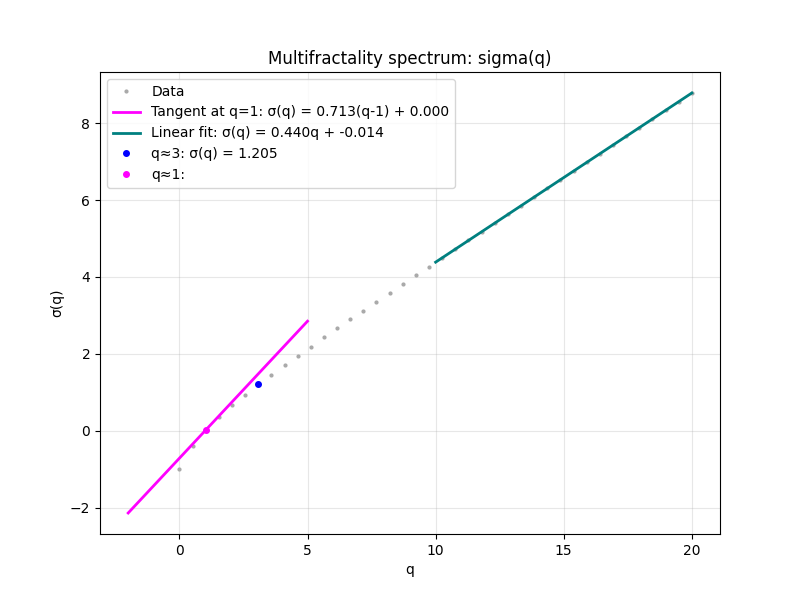
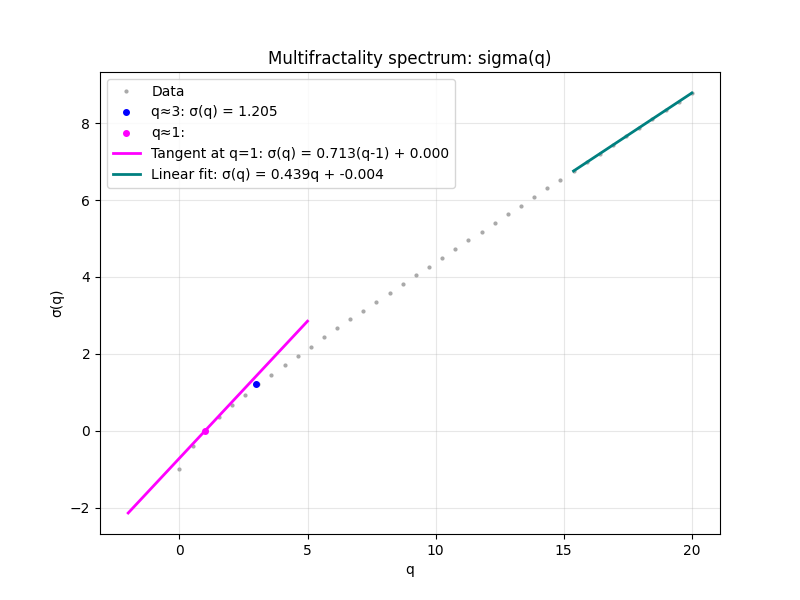
modularized multifractal fit function for multi-parameter analysis

diff --git a/coral_patterns/multifractality.py b/coral_patterns/multifractality.py
@@ -1,4 +1,4 @@
-from typing import Set, Tuple, List
+from typing import Set, Tuple, List, Dict, Any
 import numpy as np
 from tqdm import tqdm
 import random
@@ -6,10 +6,11 @@ import os
 from multiprocessing import Pool
 import gc
 import pickle
+from scipy.interpolate import interp1d
 
 from .config import DEFAULTS
 from .dla import run_walker
-from .helpers import radius_from_r2
+from .helpers import radius_from_r2, estimate_fractal_dimension
 
 def run_single_walker(args):
     """Wrapper function for multiprocessing"""
@@ -129,8 +130,9 @@ def compute_multifractality(
     max_r2: float, 
     num_walkers: int, 
     q_range: Tuple[float, float], 
-    q_steps: int
-) -> Tuple[List[float], List[float]]:
+    q_steps: int,
+    origin: Tuple[int, int] = (0, 0),
+) -> Tuple[List[float], List[float], Dict[Tuple[int, int], float], List[Tuple[int, int]], float, float, List[float], List[float], float, float, float]:
     """
     Compute the multifractality of a completed cluster
     Where:
@@ -157,6 +159,7 @@ def compute_multifractality(
     p_vals = np.array(list(growth_probabilities.values()))
 
     q_vals = np.linspace(q_range[0], q_range[1], q_steps)
+    print(f"length of q_range: {len(q_range)}")
 
     sigma_q = []
 
@@ -167,8 +170,97 @@ def compute_multifractality(
 
         print(f"q: {q}, sigma: {sigma}, sum_p_q: {sum_p_q}")
 
+    multifractality_data = multifractality_fit(q_vals, sigma_q)
+    slope_at_1 = multifractality_data["slope_at_1"]
+    sigma_at_1 = multifractality_data["sigma_at_1"]
+    q_tangent = multifractality_data["q_tangent"]
+    sigma_tangent = multifractality_data["sigma_tangent"]
+    slope_inf = multifractality_data["slope_inf"]
+    intercept_inf = multifractality_data["intercept_inf"]
+    sigma_at_3 = multifractality_data["sigma_at_3"]
+
+    fractal_dimension = estimate_fractal_dimension(cluster, origin, max_r2=max_r2)
+    print(f"Fractal dimension: {fractal_dimension}")
+
     # save to file
     with open(f"data/multifractality_mass-{DEFAULTS['target_mass']}_gm-{DEFAULTS['growth_mode']}_f-{DEFAULTS['friendliness']}_seed-{DEFAULTS['rng_seed']}_numwalkers-{num_walkers}.pkl", "wb") as f:
-        pickle.dump((q_vals, sigma_q, growth_probabilities, sample_path), f)
+        pickle.dump((q_vals, sigma_q, growth_probabilities, sample_path, slope_at_1, sigma_at_1, q_tangent, sigma_tangent, slope_inf, intercept_inf, sigma_at_3, fractal_dimension), f)
 
-    return q_vals, sigma_q, growth_probabilities, sample_path
+    return {
+        "q_vals": q_vals,
+        "sigma_q": sigma_q,
+        "growth_probabilities": growth_probabilities,
+        "sample_path": sample_path,
+        "slope_at_1": slope_at_1,
+        "sigma_at_1": sigma_at_1,
+        "q_tangent": q_tangent,
+        "sigma_tangent": sigma_tangent,
+        "slope_inf": slope_inf,
+        "intercept_inf": intercept_inf,
+        "sigma_at_3": sigma_at_3,
+        "fractal_dimension": fractal_dimension,
+    }
+
+def multifractality_fit(
+    q_vals: List[float],
+    sigma_q: List[float],
+) -> Tuple[float, float]:
+    """Behaviour of the multifractality curve as:
+     - as q -> infinity (slope should be linear and equal to D^2 - D)
+     - Around q = 1, slope should be 1/D
+     - At q = 3, sigma(q) should be equal to 1
+     Where:
+     - D is the fractal dimension of the cluster
+    """
+    
+    # ==================
+    # Measure slope as q -> infinity:
+    # ==================
+    # Fit end range of q vlaues to a linear function
+    print(f"length of q_vals: {len(q_vals)}")
+    print(f"length of sigma_q: {len(sigma_q)}")
+    slope_inf, intercept_inf = np.polyfit(q_vals[-10:], sigma_q[-10:], deg=1)
+
+    print(f"Slope at high q: {slope_inf:.4f}")
+    print(f"Intercept at high q: {intercept_inf:.4f}")
+    
+    # ==================
+    # Around q = 1:
+    # ==================
+    
+    q_vals = np.array(q_vals)
+    sigma_q = np.array(sigma_q)
+
+    # Interpolate between the data points to get a smooth curve
+    # Fit to cubic curve
+    f = interp1d(q_vals, sigma_q, kind='cubic')
+
+    # Compute derivative at q=1
+    dq = 0.001
+    slope_at_1 = (f(1 + dq) - f(1 - dq)) / (2 * dq)
+    sigma_at_1 = f(1)
+    
+    # Tangent line: y = m(x - x0) + y0
+    # y = slope_at_1 * (q - 1) + sigma_at_1
+    q_tangent = np.linspace(-2, 5, 100)
+    sigma_tangent = slope_at_1 * (q_tangent - 1) + sigma_at_1
+    print(f"Slope at q=1: {slope_at_1:.4f}")
+
+    # ==================
+    # At q = 3:
+    # ==================
+    # Find the index of the value in q_range closest to 3
+    idx_closest_to_3 = np.abs(q_vals - 3).argmin()
+    sigma_at_3 = sigma_q[idx_closest_to_3]
+    
+    print(f"Sigma at q=3: {sigma_at_3:.4f}")
+    
+    return {
+        "slope_at_1": slope_at_1,
+        "sigma_at_1": sigma_at_1,
+        "q_tangent": q_tangent,
+        "sigma_tangent": sigma_tangent,
+        "slope_inf": slope_inf,
+        "intercept_inf": intercept_inf,
+        "sigma_at_3": sigma_at_3
+    }

diff --git a/coral_patterns/plot_dla.py b/coral_patterns/plot_dla.py
@@ -2,7 +2,7 @@ import math
 import matplotlib.pyplot as plt
 import numpy as np
 from typing import List, Tuple, Set, Dict, Any
-from scipy.interpolate import interp1d
+from .multifractality import multifractality_fit
 
 from .helpers import estimate_fractal_dimension
 
@@ -90,6 +90,7 @@ def plot_mass_over_time(
         plt.savefig(f"plots/mass_over_time_mass-{cfg['target_mass']}_gm-{cfg['growth_mode']}_f-{cfg['friendliness']}_seed-{cfg['rng_seed']}.png")
         plt.close()
 
+
 def plot_multifractality(
     q_range: List[float],
     sigma_q: List[float],
@@ -100,54 +101,34 @@ def plot_multifractality(
 ) -> None:
     """Plot multifractality."""
 
-    # Interpolate sigma_q to a finer grid
-    f = interp1d(q_range, sigma_q, kind='cubic', fill_value='extrapolate')
-    
-    # Measure slope as q -> infinity
-    q_inf = np.linspace(np.max(q_range) - 10, np.max(q_range), 10)
-    sigma_q_inf = f(q_inf)  # Interpolate values
-    slope_inf, intercept_inf = np.polyfit(q_inf, sigma_q_inf, deg=1)
-
-    print(f"Slope at high q: {slope_inf:.4f}")
+    multifractality_data = multifractality_fit(q_range, sigma_q)
+    slope_at_1 = multifractality_data["slope_at_1"]
+    sigma_at_1 = multifractality_data["sigma_at_1"]
+    q_tangent = multifractality_data["q_tangent"]
+    sigma_tangent = multifractality_data["sigma_tangent"]
+    slope_inf = multifractality_data["slope_inf"]
+    intercept_inf = multifractality_data["intercept_inf"]
+    sigma_at_3 = multifractality_data["sigma_at_3"]
 
     plt.figure(figsize=(8, 6))
 
-    q_range = np.array(q_range)
-    sigma_q = np.array(sigma_q)
-    
-    # Fit the entire curve to get derivative
-    f = interp1d(q_range, sigma_q, kind='cubic', fill_value='extrapolate')
-    
-    # Get the slope at q=1 using numerical derivative
-    dq = 0.001
-    slope_at_1 = (f(1 + dq) - f(1 - dq)) / (2 * dq)
-    sigma_at_1 = f(1)
-    
-    # Tangent line: y = m(x - x0) + y0
-    # y = slope_at_1 * (q - 1) + sigma_at_1
-    q_tangent = np.linspace(-2, 5, 100)
-    sigma_tangent = slope_at_1 * (q_tangent - 1) + sigma_at_1
-    
-    print(f"Slope at q=1: {slope_at_1:.4f}")
-
     # plot data
     plt.plot(q_range, sigma_q, 'o', label='Data', color='darkgrey', markersize=2)
-    
-    # Plot tangent line
-    plt.plot(q_tangent, sigma_tangent, 'r-', linewidth=2, color='magenta',
-             label=f'Tangent at q=1: σ(q) = {slope_at_1:.3f}(q-1) + {sigma_at_1:.3f}')
-    # plot slope as q -> infinity
-    plt.plot(q_inf, slope_inf * q_inf + intercept_inf, 'r-', linewidth=2, color='teal', label=f'Linear fit: σ(q) = {slope_inf:.3f}q + {intercept_inf:.3f}')
 
     # plot a single point at q=3
-    # Find the index of the value in q_range closest to 3
-    idx_closest_to_3 = np.abs(np.array(q_range) - 3).argmin()
-    plt.plot(q_range[idx_closest_to_3], sigma_q[idx_closest_to_3], 'o', color='blue', label=f'q≈3: σ(q) = {sigma_q[idx_closest_to_3]:.3f}', markersize=4)
+    plt.plot(3, sigma_at_3, 'o', color='blue', label=f'q≈3: σ(q) = {sigma_at_3:.3f}', markersize=4)
 
     # plot a single point at q=1
-    idx_closest_to_1 = np.abs(np.array(q_range) - 1).argmin()
-    plt.plot(q_range[idx_closest_to_1], sigma_q[idx_closest_to_1], 'o', color='magenta', label=f'q≈1:', markersize=4)
+    plt.plot(1, sigma_at_1, 'o', color='magenta', label=f'q≈1:', markersize=4)
+    
+    # Plot tangent line at q=1
+    plt.plot(q_tangent, sigma_tangent, '-', linewidth=2, color='magenta', 
+         label=f'Tangent at q≈1: σ(q) = {slope_at_1:.3f}(q-1) + {sigma_at_1:.3f}')
 
+    # plot slope as q -> infinity
+    plt.plot(q_range[-10:], slope_inf * q_range[-10:] + intercept_inf, '-', linewidth=2, color='teal', 
+         label=f'Linear fit: σ(q) = {slope_inf:.3f}q + {intercept_inf:.3f}')
+         
     plt.xlabel('q')
     plt.ylabel('σ(q)')
     plt.title(title)
@@ -168,7 +149,7 @@ def plot_growth_probability(
     title: str = "",
     show_fig: bool = False
 ) -> None:
-    """Plot growth probability."""
+    """Plot growth probability with an example path taken by a walker."""
 
     xs = [x for (x, _) in growth_probabilities.keys()]
     ys = [y for (_, y) in growth_probabilities.keys()]
@@ -177,8 +158,10 @@ def plot_growth_probability(
     plt.figure(figsize=(6, 6))
     scatter = plt.scatter(xs, ys, s=0.6, c=colors, cmap='cool', vmin=min(colors), vmax=max(colors))
     
+    # Plot the first point of the sample path as a red dot
     plt.plot(sample_path[0][0], sample_path[0][1], 'ro', markersize=2)
-    # Plot the rest of the path as a grey line
+    
+    # Plot the rest of the walker's path as a grey line
     if len(sample_path) > 1:
         plt.plot([x for (x, _) in sample_path], [y for (_, y) in sample_path], color='grey', alpha=0.3, linewidth=0.6)
 

diff --git a/scripts/002-multifractality-experiment.py b/scripts/002-multifractality-experiment.py
@@ -17,20 +17,47 @@ def main():
             cluster, cluster_history, origin, mass_history, max_r2 = pickle.load(f)
 
     plot_cluster(cluster_history, cfg=cfg, title=PLOT_DEFAULTS["title_cluster"], point_size=PLOT_DEFAULTS["point_size"])
-    # plot_mass_radius(cluster, origin, max_r2, cfg=cfg title=PLOT_DEFAULTS["title_mass_radius"])
-    # plot_mass_over_time(mass_history, cfg=cfg, title=PLOT_DEFAULTS["title_mass_time"])
 
     if not os.path.exists(f"data/multifractality_mass-{cfg['target_mass']}_gm-{cfg['growth_mode']}_f-{cfg['friendliness']}_seed-{cfg['rng_seed']}_numwalkers-{MULTIFRACTALITY_DEFAULTS['num_walkers']}.pkl"):
-        q_vals, sigma_q, growth_probabilities, sample_path = compute_multifractality(cluster, max_r2, num_walkers=MULTIFRACTALITY_DEFAULTS["num_walkers"], q_range=PLOT_DEFAULTS["q_range"], q_steps=PLOT_DEFAULTS["q_steps"])
+        multifractality_data = compute_multifractality(
+            cluster,
+            max_r2,
+            num_walkers=MULTIFRACTALITY_DEFAULTS["num_walkers"],
+            q_range=PLOT_DEFAULTS["q_range"],
+            q_steps=PLOT_DEFAULTS["q_steps"],
+        )
+        
+        q_vals = multifractality_data["q_vals"]
+        sigma_q = multifractality_data["sigma_q"]
+        growth_probabilities = multifractality_data["growth_probabilities"]
+        sample_path = multifractality_data["sample_path"]
+        slope_at_1 = multifractality_data["slope_at_1"]
+        sigma_at_1 = multifractality_data["sigma_at_1"]
+        q_tangent = multifractality_data["q_tangent"]
+        sigma_tangent = multifractality_data["sigma_tangent"]
+        slope_inf = multifractality_data["slope_inf"]
+        intercept_inf = multifractality_data["intercept_inf"]
+        sigma_at_3 = multifractality_data["sigma_at_3"]
+        fractal_dimension = multifractality_data["fractal_dimension"]
     else:
         with open(f"data/multifractality_mass-{cfg['target_mass']}_gm-{cfg['growth_mode']}_f-{cfg['friendliness']}_seed-{cfg['rng_seed']}_numwalkers-{MULTIFRACTALITY_DEFAULTS['num_walkers']}.pkl", "rb") as f:
-            q_vals, sigma_q, growth_probabilities, sample_path = pickle.load(f)
+            (
+                q_vals,
+                sigma_q,
+                growth_probabilities,
+                sample_path,
+                slope_at_1,
+                sigma_at_1,
+                q_tangent,
+                sigma_tangent,
+                slope_inf,
+                intercept_inf,
+                sigma_at_3,
+                fractal_dimension
+            ) = pickle.load(f)
 
     plot_multifractality(q_vals, sigma_q, title=PLOT_DEFAULTS["title_multifractality"], cfg=cfg, num_walkers=MULTIFRACTALITY_DEFAULTS["num_walkers"])
-    
-    fractal_dimension = estimate_fractal_dimension(cluster, origin, max_r2=max_r2)
-    print(f"Fractal dimension: {fractal_dimension}")
-    
+
     plot_growth_probability(growth_probabilities, cfg=cfg, sample_path=sample_path, num_walkers=MULTIFRACTALITY_DEFAULTS["num_walkers"])
 
 

diff --git a/coral_patterns/dla.py b/coral_patterns/dla.py
@@ -61,7 +61,6 @@ def run_walker(
 
         # Baseline sticking rule: stick when you are on a cluster site
         if (x, y) in cluster:
-            # return (x, y), path
             return (x, y), path
 
         # Otherwise keep walking
